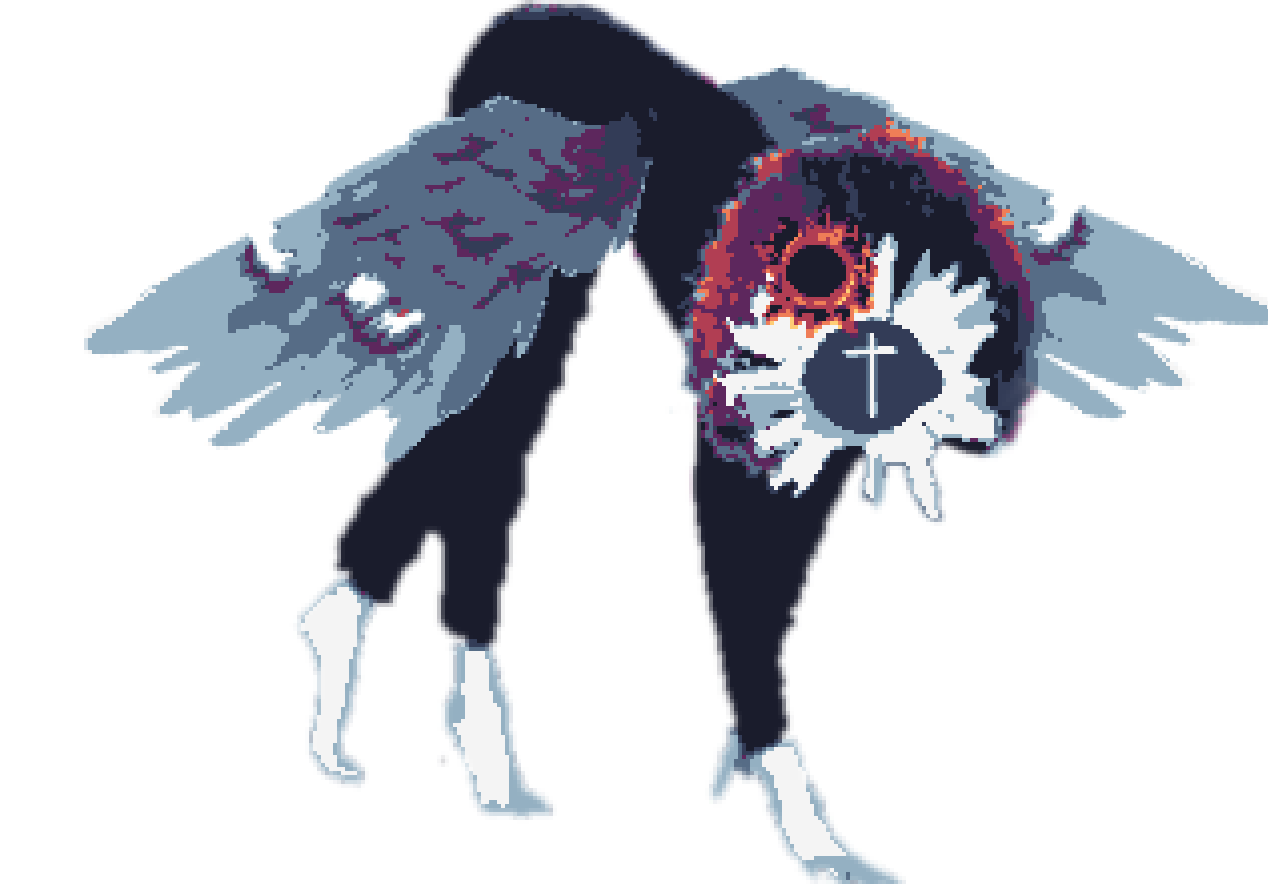
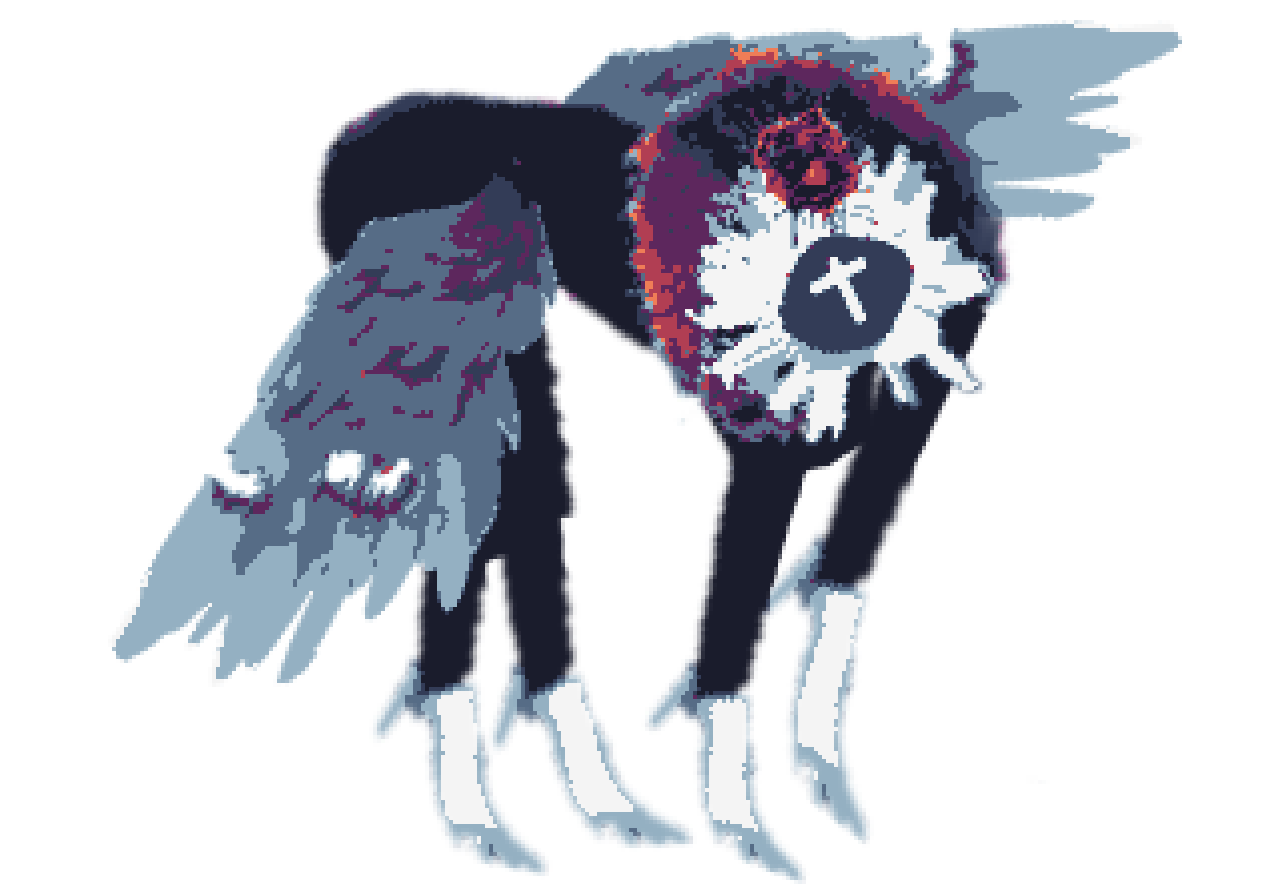
Isopod

diff --git a/Minigotchi.py b/Minigotchi.py
@@ -183,7 +183,7 @@ QPushButton:hover {
     border-image: url("FrigiderB.png");
 }
 """)
-minarickabytost = False
+minarickabytost = "False"
 um = QPushButton(novak)
 um.move(-20,135)
 um.setIcon(QIcon(r"UzuriMazura.png"))
@@ -325,16 +325,18 @@ def zmrzf():
 
 def Switcharoonie(enemy=None):
     global Iterator
-    global hlad, burt, minarickabytost
+    global hlad, burt, minarickabytost, hatchlvl
     if Iterator == 1:
         HPBar.setIcon(QIcon(f"1.png"))
         vajco.setIcon(QIcon("MinEgg.png"))
         vajco.show()
         minik.hide()
     elif Iterator == 2:
+        hatchlvl = 10000
         vajco.hide()
-        if not minarickabytost:
-            um.hide()
+        if minarickabytost == "False":
+            um.setIcon(QIcon("UzuriDead.png"))
+            minarickabytost = "Dead"
         if len(nemoci) > 0:
             minik.setIcon(QIcon(f"Min{random.choice(nemoci)}.png"))
             return
@@ -482,6 +484,15 @@ nabytky = [
     {"name": "Arménská Vlajka", "img": "AtZijeArcach.png", "y": 140, "x": 140, "price": 120, "type": 2, "count": 0, "object": None}
 ]
 
+nabytkysp = [
+    {"name": "Isopod", "img": "Isopod.png", "y": 211, "x": 240, "price": 150, "type": 3, "count": 0, "object": None},
+    {"name": "Hanami Plakát", "img": "Hanami.png", "y": 211, "x": 340, "price": 120, "type": 2, "count": 0, "object": None},
+    {"name": "X", "img": "PotBonsai.png", "y": 140, "x": 340, "price": 150, "type": 1, "count": 0, "object": None},
+    {"name": "Podstavec 1984", "img": "1984.png", "y": 211, "x": 140, "price": 150, "type": 1, "count": 0, "object": None},
+    {"name": "X", "img": "Borda.png", "y": 140, "x": 240, "price": 150, "type": 2, "count": 0, "object": None},
+    {"name": "Evropská Vlajka", "img": "EU.png", "y": 140, "x": 140, "price": 120, "type": 2, "count": 0, "object": None}
+]
+
 jidlicka = [
     {"name": "Hot Dawg", "img": "Horkopes.png", "y": 211, "x": 240, "price": 50, "count": 0},
     {"name": "Pizza", "img": "Pizza.png", "y": 211, "x": 340, "price": 40, "count": 0},
@@ -500,12 +511,24 @@ zmrzliny = [
     {"name": "Čokoládová", "img": "ZChoco.png", "y": 150, "x": 140, "price": 30, "count": 0}
 ]
 
+special = [
+    {"name": "Svěcená Voda", "img": "Holy.png", "y": 211, "x": 240, "price": 50, "count": 0},
+    {"name": "Hlaveň Bohů", "img": "Pizza.png", "y": 211, "x": 340, "price": 150, "count": 0},
+    {"name": "Nugetka", "img": "Nugetky.png", "y": 140, "x": 340, "price": 30, "count": 2},
+    {"name": "Bílý Monster", "img": "Monster.png", "y": 211, "x": 140, "price": 50, "count": 0},
+    {"name": "Ibalgin", "img": "Drogy.png", "y": 140, "x": 240, "price": 50, "count": 0},
+    {"name": "Teplá Voda", "img": "Vroci.png", "y": 140, "x": 140, "price": 20, "count": 1}
+]
 multi = 1
 def update(mode):
     global event
     global multi
-    if mode == "Led":
-        for item in jidlicka:
+    if mode == "Led" or mode == "Led2":
+        if mode == "Led":
+            marakuja = jidlicka
+        else:
+            marakuja = special
+        for item in marakuja:
             if event == "BL" or event == "E":
                 item["label"].setText(f"{item['price']*multi}$!")
             else:
@@ -530,6 +553,9 @@ def update(mode):
                 item["label"].setText(f"{item['price']+40}$")
             else:
                 item["label"].setText(f"{item['price']}$")
+    elif mode == "NakupSP":
+        for item in nabytkysp:
+            item["label"].setText(f"{item['price']}$")
    
 def HorsiNezFilipTurekOtaznik(item):
     global mon
@@ -537,6 +563,12 @@ def HorsiNezFilipTurekOtaznik(item):
     if mon < item["price"] * multi:
         return
     mon -= item["price"] * multi
+    for jidlo in jidlicka:
+        if jidlo["name"] == item["name"]:
+            jidlo["count"] += 1
+            break
+    else:
+        item["count"] += 1
     item["count"] += 1
     update(UIstate)
     zmena()
@@ -619,16 +651,59 @@ for item in zmrzliny:
     item["label"] = label
     btn.clicked.connect(lambda _, i=item: aktivujeme(i))
 
+for item in special:
+    btn = QPushButton(novak)
+    btn.setIcon(QIcon(item["img"]))
+    btn.setGeometry(item["x"], item["y"], 115, 50)
+    btn.setIconSize(QSize(60,60))
+    btn.hide()
+    btn.setStyleSheet("""
+    QPushButton {
+        border: none;
+        background: transparent;
+    }
+    """)
+    label = QLabel(novak)
+    btn.setToolTip(item["name"])
+    label.setGeometry(item["x"] + 85, item["y"], 140, 50)
+    label.setStyleSheet("color: black; font-size: 14px; background: transparent;")
+    label.hide()
+    label.setAttribute(QtCore.Qt.WA_TransparentForMouseEvents)
+    item["button"] = btn
+    item["label"] = label
+    btn.clicked.connect(lambda _, i=item: volbyvarmenii(i))
+
+def Cratur(item):
+    obj = item.get("object")
+    if obj is None:
+        return
+    if item["count"] <= 0:
+        return
+    frame = item.get("frame", 1)
+    matarael = item['img'].replace(".png", "")
+    obj.setIcon(QIcon(f"{matarael}{frame}.png"))
+    frame += 1
+    if frame > 5:
+        frame = 1
+    item["frame"] = frame
+    QTimer.singleShot(150, lambda i=item: Cratur(i))
+
 def updateenvir():
-    for item in nabytky:
+    for item in nabytky + nabytkysp:
         if item["count"] > 0:
             if item["object"] is None:
                 obj = QPushButton(novak)
                 obj.setIcon(QIcon(item["img"]))
                 if item["type"] == 1:
                     obj.move(56, 73)
-                else:
+                elif item["type"] == 2:
                     obj.move(150, 45)
+                else:
+                    matarael = item['img'].replace(".png", "")
+                    obj.setIcon(QIcon(f"{matarael}1.png"))
+                    obj.move(300, 76)
+                    item["frame"] = 1
+                    QTimer.singleShot(150, lambda i=item: Cratur(i))
                 obj.setIconSize(QSize(140,140))
                 obj.setAttribute(QtCore.Qt.WA_TransparentForMouseEvents)
                 obj.show()
@@ -656,7 +731,7 @@ def koupimesikocicku(item):
     if mon < item["price"] - multiv:
         return
     mon = mon - (item["price"] - multiv)
-    for jini in nabytky:
+    for jini in nabytky + nabytkysp:
         if jini["type"] == item["type"] and jini != item:
             jini["count"] = 0
             if jini["object"]:
@@ -669,6 +744,28 @@ def koupimesikocicku(item):
     updateenvir()
 
 for item in nabytky:
+    btn = QPushButton(novak)
+    btn.setIcon(QIcon(item["img"]))
+    btn.setGeometry(item["x"], item["y"], 115, 50)
+    btn.setIconSize(QSize(60,60))
+    btn.hide()
+    btn.setToolTip(item["name"])
+    btn.clicked.connect(lambda _, i=item: koupimesikocicku(i))
+    btn.setStyleSheet("""
+    QPushButton {
+        border: none;
+        background: transparent;
+    }
+    """)
+    label = QLabel(novak)
+    label.setGeometry(item["x"] + 85, item["y"], 140, 50)
+    label.setStyleSheet("color: black; font-size: 14px; background: transparent;")
+    label.hide()
+    label.setAttribute(QtCore.Qt.WA_TransparentForMouseEvents)
+    item["button"] = btn
+    item["label"] = label
+
+for item in nabytkysp:
     btn = QPushButton(novak)
     btn.setIcon(QIcon(item["img"]))
     btn.setGeometry(item["x"], item["y"], 115, 50)
@@ -728,8 +825,9 @@ def consola():
     global RepublikaTaiwan
     global mon
     global nemoci
-    global Iterator
+    global Iterator, event
     zeme = ["Artsakh", "Tibet", "Palestine", "Uyghurstan", "Rojava"]
+    nini = ["UM", "B", "BL", "E"]
     if RepublikaTaiwan > 29:
         console.setIcon(QIcon("Console.png"))
         if inputer.isVisible():
@@ -745,7 +843,7 @@ def consola():
                 Iterator = 2
                 Switcharoonie()
             elif text in zeme:
-                for jini in nabytky:
+                for jini in nabytky + nabytkysp:
                     if jini["type"] == item["type"] and jini != item:
                         jini["count"] = 0
                         if jini["object"]:
@@ -769,9 +867,12 @@ def consola():
     """)
             elif text == "UM" or text == "um" or text == "Uzuri Mazura" or text == "uzuri mazura":
                 global minarickabytost
-                minarickabytost = True
+                minarickabytost = "True"
             elif text == "Hlad" or text == "Vyhladov":
                 chud()
+            elif text in nini:
+                day_night()
+                event = text
             inputer.hide()
             inputer.clear()
         else:
@@ -845,7 +946,7 @@ def spawnzombi():
     ene.show()
     ene.lower()
     global envir
-    for item in nabytky:
+    for item in nabytky + nabytkysp:
         obj = item.get("object")
         if obj:
             obj.lower()
@@ -983,7 +1084,7 @@ def zmrdetaktydostanes():
 
 def schovse():
     global envir
-    for item in nabytky:
+    for item in nabytky + nabytkysp:
         obj = item.get("object")
         if obj:
             if envir == "Hriste":
@@ -1021,9 +1122,12 @@ def navod(Type = None):
         psik.show()
         hopkun.show()
         schovse()
-        if minarickabytost:
+        if minarickabytost == "True":
             um.show()
             um.setIcon(QIcon(f"UzuriMazura.png"))
+        elif minarickabytost == "Dead":
+            um.show()
+            um.setIcon(QIcon(f"UzuriDead.png"))
         if event == "Z":
             zmrz.show()
     else:
@@ -1095,7 +1199,7 @@ def zastrel():
 
 def nakupy():
     global LedSwitch
-    global UIstate
+    global UIstate, event
     if UIstate == "Led" or UIstate == "Hamu":
         return
     if LedSwitch == 0:
@@ -1103,10 +1207,18 @@ def nakupy():
         UIstate = "Nakup"
         menuexit.show()
         frigmenu.show()
-        for item in nabytky:
-            item["button"].show()
-            item["label"].show()
-        update("Nakup")
+        if not event == "UM":
+            for item in nabytky:
+                item["button"].show()
+                item["label"].show()
+        else:
+            for item in nabytkysp:
+                item["button"].show()
+                item["label"].show()
+        if not event == "UM":
+            update("Nakup")
+        else:
+            update("NakupSP")
         LedSwitch = 1
     else:
         UIstate = "X"
@@ -1114,6 +1226,9 @@ def nakupy():
         frigmenu.hide()
         menuexit.hide()
         for item in nabytky:
+            item["button"].hide()
+            item["label"].hide()
+        for item in nabytkysp:
             item["button"].hide()
             item["label"].hide()
         LedSwitch = 0
@@ -1266,8 +1381,8 @@ def day_night():
         psik = event
         if psik == "Z":
             psik = ""
-        if random.randint(1,20) == 5:
-            minarickabytost = True
+        if random.randint(1,20) == 5 and not minarickabytost == "Dead":
+            minarickabytost = "True"
             print("An Angel has descended from the heavens")
         Iterator = 2
         Switcharoonie()
@@ -1366,13 +1481,15 @@ def hatch():
 prokleti = False
 def umf():
     global hatchlvl, Iterator, minarickabytost, prokleti
+    if minarickabytost == "Dead":
+        return
     if not hatchlvl == 10:
         um.setIcon(QIcon("UzuriMazuraLay.png"))
     else:
         um.setIcon(QIcon("UzuriMazuraMurder.png"))
         Iterator = 2
         QTimer.singleShot(300,Switcharoonie)
-        minarickabytost = False
+        minarickabytost = "False"
         prokleti = True
 
 agedotaznik = False
@@ -1387,16 +1504,23 @@ def ageup():
 def led():
     global LedSwitch
     global lock
-    global UIstate
+    global UIstate, event
     if LedSwitch == 0:
         frigmenu.setIcon(QIcon(f"FrigiMenu.png"))
         UIstate = "Led"
         menuexit.show()
         frigmenu.show()
-        for item in jidlicka:
+        if event == "UM":
+            avocado = special
+        else:
+            avocado = jidlicka
+        for item in avocado:
             item["button"].show()
             item["label"].show()
-        update("Led")
+        if avocado == jidlicka:
+            update("Led")
+        else:
+            update("Led2")
         LedSwitch = 1
     else:
         UIstate = "X"
@@ -1404,6 +1528,9 @@ def led():
         frigmenu.hide()
         menuexit.hide()
         for item in jidlicka:
+            item["button"].hide()
+            item["label"].hide()
+        for item in special:
             item["button"].hide()
             item["label"].hide()
         LedSwitch = 0
@@ -1426,7 +1553,7 @@ RepublikaTaiwan = 0
 
 vajco.clicked.connect(hatch)
 minik.clicked.connect(ageup)
-#minik.clicked.connect(day_night)
+minik.clicked.connect(day_night)
 frig.clicked.connect(led)
 menuexit.clicked.connect(masa)
 hopkun.clicked.connect(hrajsi)
